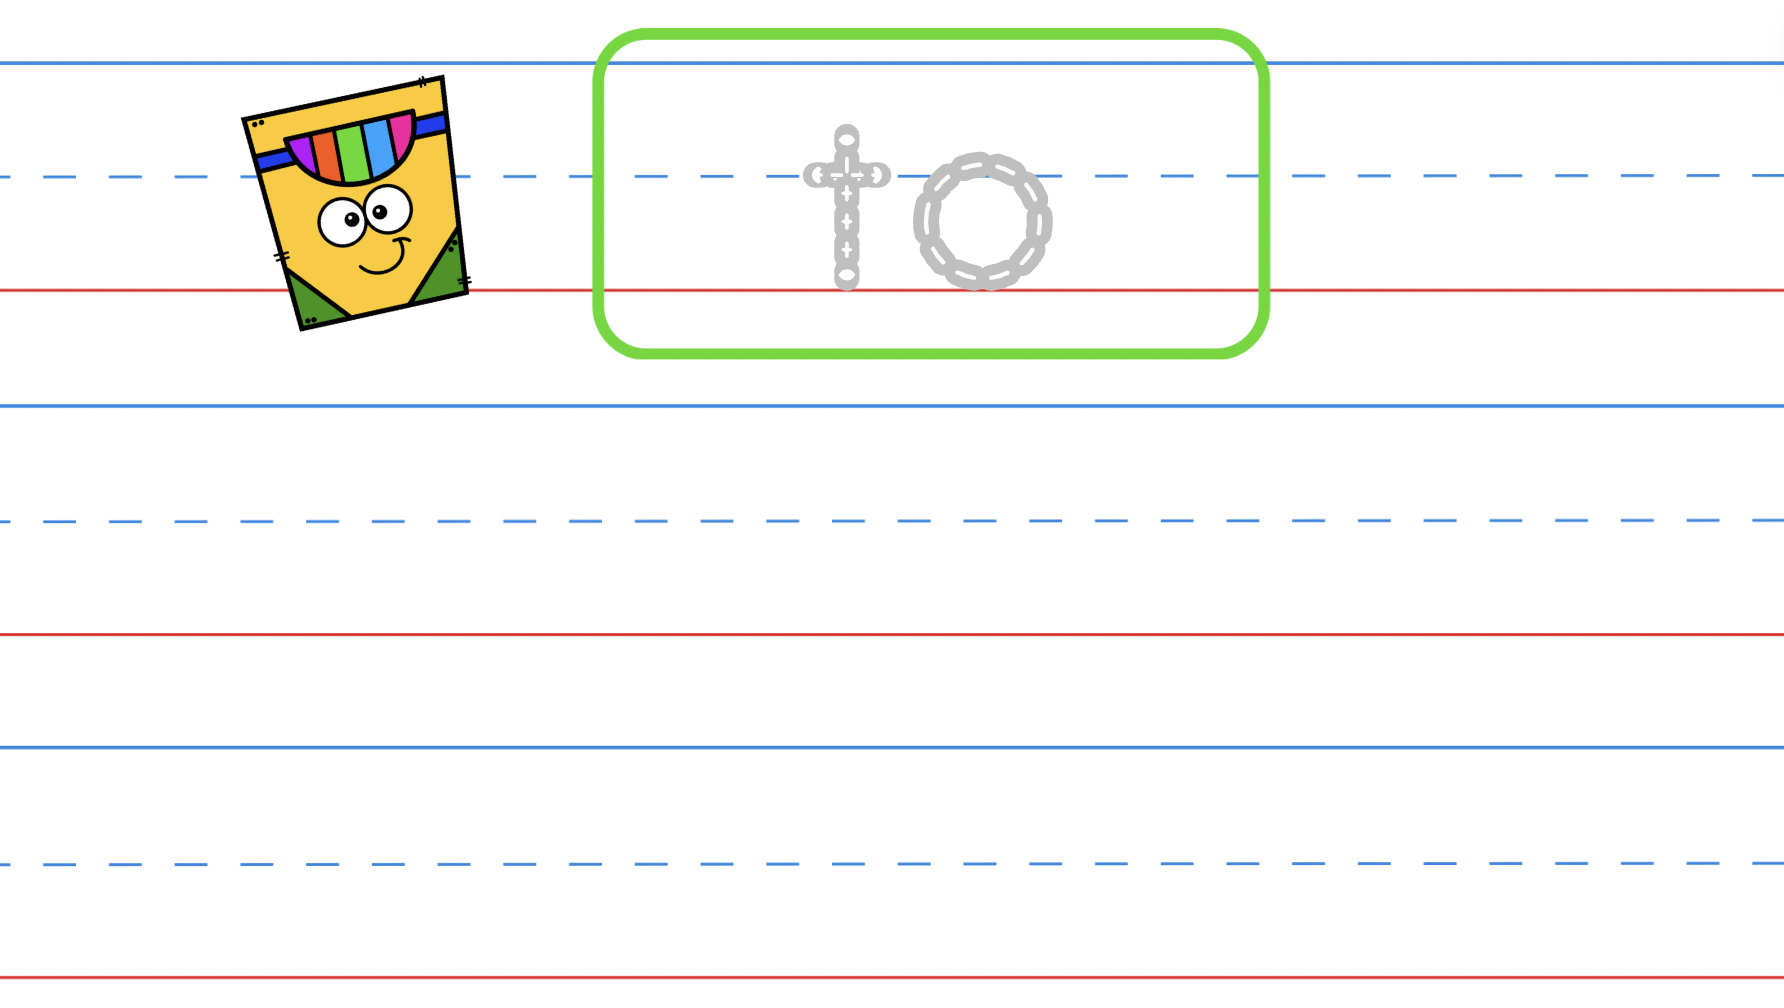
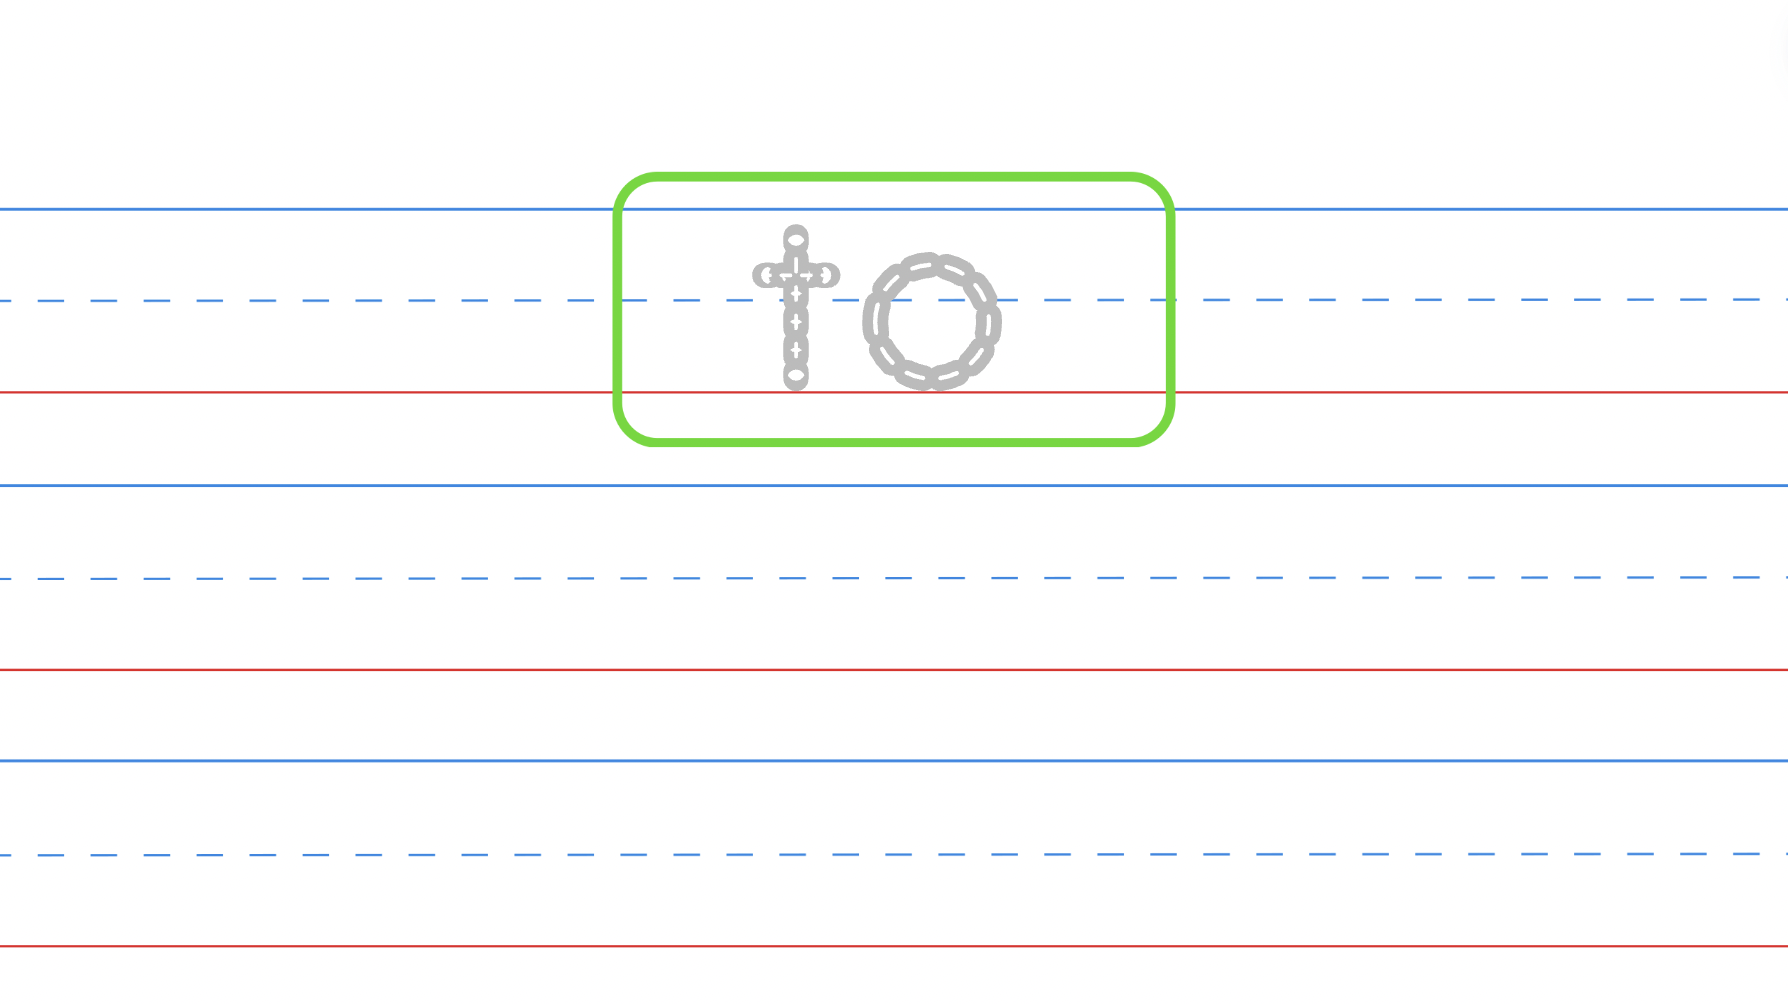
trace activity working

diff --git a/src/views/TraceView.js b/src/views/TraceView.js
@@ -12,6 +12,13 @@ const TraceView = ({ navigation, route }) => {
   const background = activitiesWordMapping[batch]?.[activity]?.[selectedWord] || activitiesWordMapping.default;
   const [paths, setPaths] = useState([]);
   const [color, setColor] = useState("black"); // Ensure color state is defined
+  const [showColorPicker, setShowColorPicker] = useState(false);
+
+  const colorOptions = ["black", "red", "blue", "green", "yellow", "purple"];
+
+  const toggleColorPicker = () => {
+    setShowColorPicker(!showColorPicker);
+  };
 
   const panResponder = PanResponder.create({
     onStartShouldSetPanResponder: () => true,
@@ -43,7 +50,6 @@ const TraceView = ({ navigation, route }) => {
   };
 
   return (
-    
     <ImageBackground source={background} resizeMode="cover" style={styles.background}>
       <View {...panResponder.panHandlers} style={styles.svgContainer}>
         <Svg height={screenHeight} width={screenWidth}>
@@ -58,36 +64,87 @@ const TraceView = ({ navigation, route }) => {
           ))}
         </Svg>
       </View>
+      
       <TouchableOpacity style={styles.button} onPress={handleClearButtonClick}>
-        <Image source={require('../assets/traceViews/eraser.png')} style={styles.Image} />
+        <Image source={require('../assets/traceViews/eraser.png')} style={styles.eraserImage} />
       </TouchableOpacity>
+  
+      <TouchableOpacity style={styles.crayonBox} onPress={toggleColorPicker}>
+        <Image source={require('../assets/traceViews/crayonBox.png')} style={styles.crayonBoxImage} />
+      </TouchableOpacity>
+  
+      {/* Color Picker Overlay */}
+      {showColorPicker && (
+        <View style={styles.colorPickerContainer}>
+          {colorOptions.map((optionColor, index) => (
+            <TouchableOpacity
+              key={index}
+              style={[styles.colorOption, {backgroundColor: optionColor}]}
+              onPress={() => {
+                handleChangeColor(optionColor);
+                toggleColorPicker(); // Hide color picker after selection
+              }}
+            />
+          ))}
+        </View>
+      )}
+  
       {/* Additional buttons for changing color */}
     </ImageBackground>
   );
 };
 
 const styles = StyleSheet.create({
+
   background: {
     flex: 1,
     flexDirection: 'column',
     justifyContent: 'center',
     alignItems: 'center',
+    resizeMode: 'contain',
+    
   },
   svgContainer: {
     flex: 1,
     justifyContent: 'center',
     alignItems: 'center',
-    borderColor: 'blue',
-    borderWidth: 4,
   },
   button: {
     position: 'absolute',
     right: 20,
     bottom: 20,
   },
-  Image: {
+crayonBox: {
+    position: 'absolute',
+    left: 0,
+    bottom: 20,
+},
+crayonBoxImage: {
+    width: 100,
+    height: 100,
+    borderColor: 'black',
+    marginLeft: 50,
+},
+  eraserImage: {
+    width: 100,
+    height: 50,
+    borderColor: 'black',
+
+  },
+  colorPickerContainer: {
+    position: 'absolute',
+    padding: 20,
+    backgroundColor: '#fff',
+    borderRadius: 10,
+    flexDirection: 'row',
+    flexWrap: 'wrap',
+    justifyContent: 'center',
+    alignItems: 'center',
+  },
+  colorOption: {
     width: 50,
     height: 50,
+    margin: 5,
   },
 });
 
